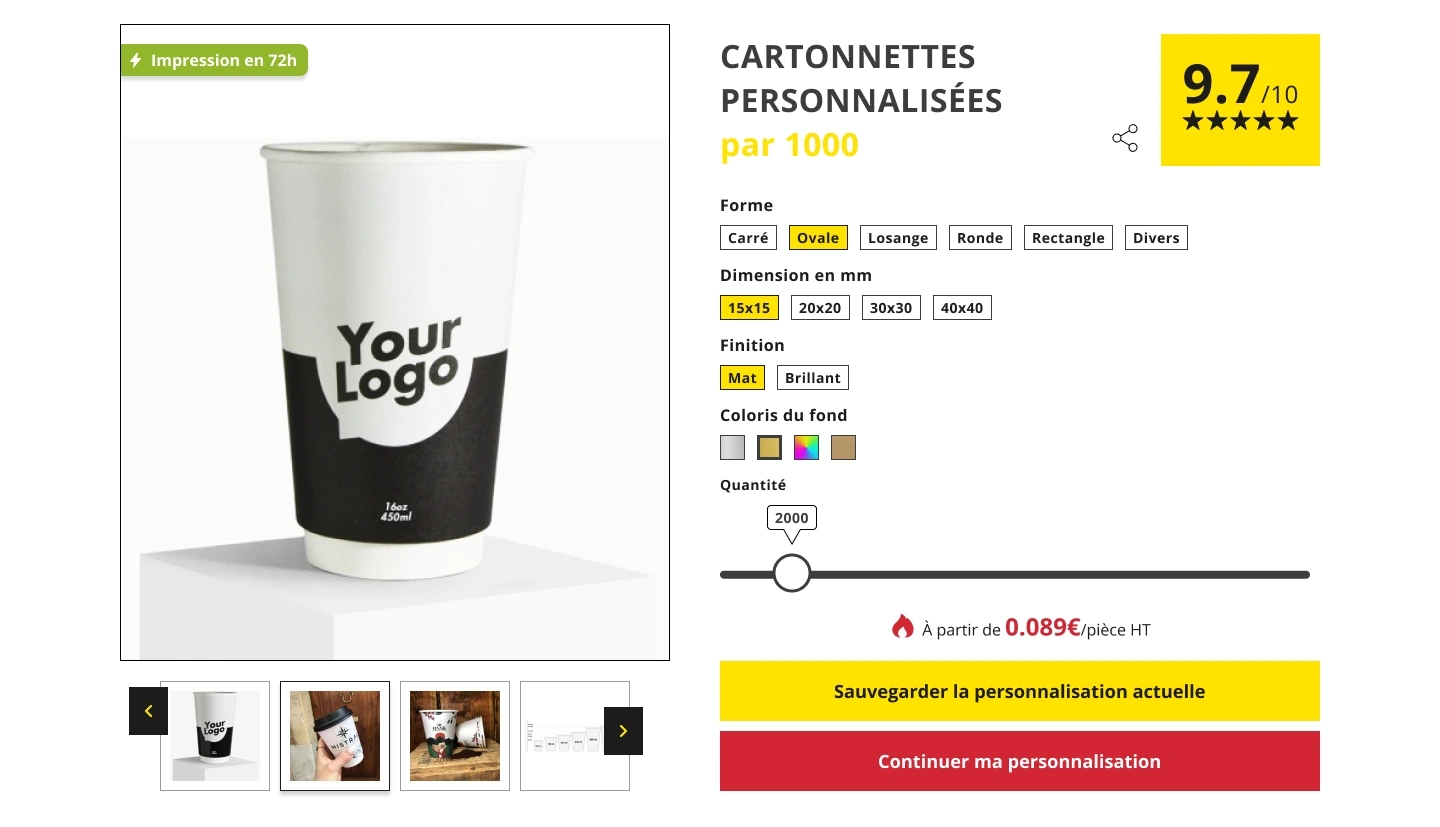
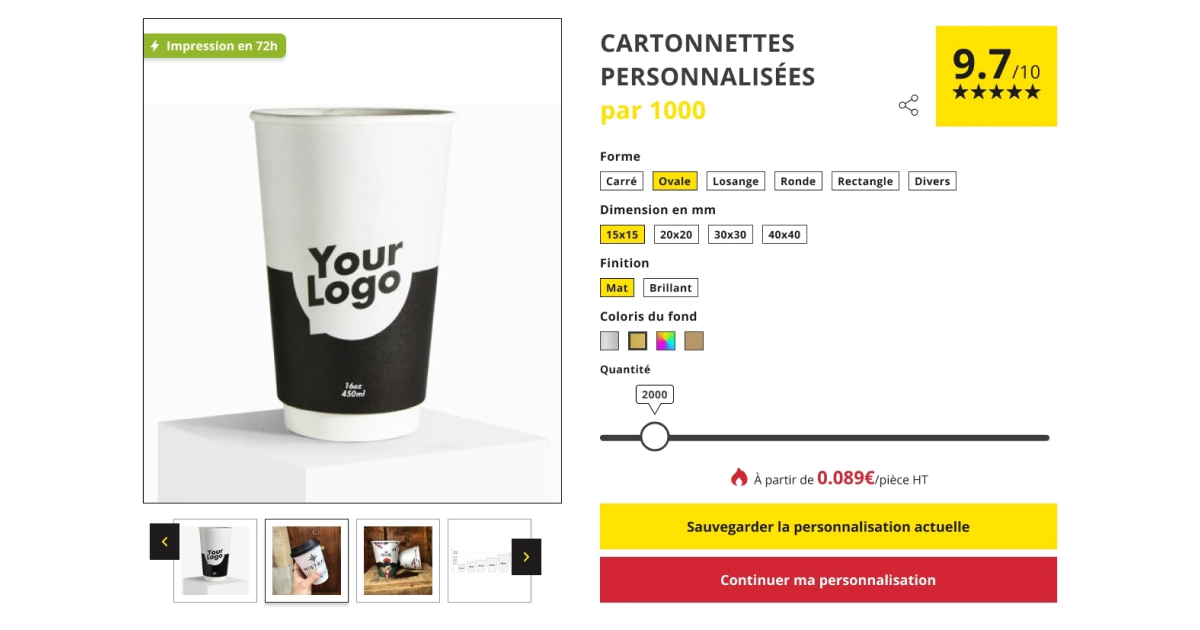
Update project dimensions

diff --git a/_site/creations/papa-france/index.html b/_site/creations/papa-france/index.html
@@ -34,9 +34,9 @@
     
     <meta property="og:image:alt" content="PAPA France">
     
-    <meta property="og:image:width" content="1440">
+    <meta property="og:image:width" content="1200">
     
-    <meta property="og:image:height" content="827">
+    <meta property="og:image:height" content="630">
     
 
     <link rel="preconnect" href="https://fonts.googleapis.com">
